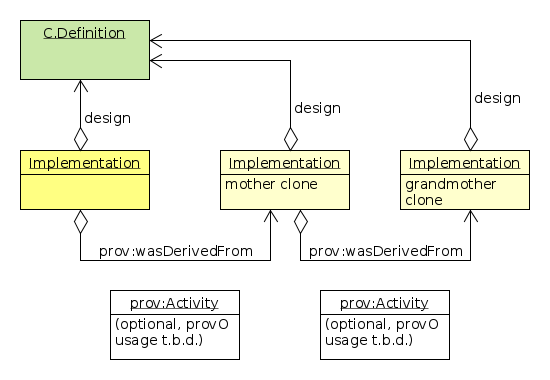
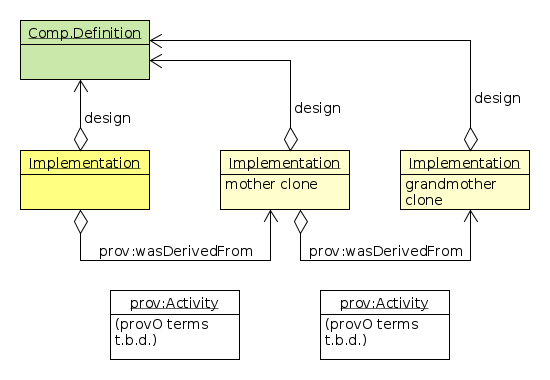
fine tune figures

Changed region(s): [[0.2164, 0.8395, 0.4327, 0.9263], [0.5873, 0.8395, 0.8036, 0.9263], [0.0618, 0.0579, 0.2473, 0.1158]]

diff --git a/sep_020.md b/sep_020.md
@@ -41,8 +41,6 @@ This proposal is mostly identical and complementary to SEP 19 but differs in the
 Specification <a name="specification"></a>
 ----------------------------------------------
 
-We propose a new class `Implementation`. 
-
 ### 2.1 Implementation class <a name="implementation"></a>
 
 An `Implementation` represents a real, physical instance of a synthetic biological construct which may be associated with, typically more than one, actual laboratory samples. Note that the representation of individual samples (as in LIMS systems) remains outside the scope of SBOL. Whether or not two samples are considered to belong to the same batch or at which point they are split into separate `Implementation` instances is decided by the user and will be a matter of community best practices in a given area of bioengineering. 
@@ -80,7 +78,7 @@ Once created, the `uri` identifier of an `Implementation` instance MUST NOT chan
 
 ![Experimental Data](images/sep_020_impl_to_exp.png "Association of Experimental Data with Clones/Batches and intended Design")
 
-**Figure 2.2:** Association of experimental data with `Implementation` (Clones/Batches) and Design.
+**Figure 2:** Association of experimental data with `Implementation` (Clones/Batches) and Design.
 
 Such `Attachments` MAY instead also be grouped into `Collections`. Detailed will have to be determined by practical use.
 
@@ -91,7 +89,7 @@ Detailed information about how a given construct or organism was built in the la
 
 ![Assembly Method](images/sep_020_assembly.png "Representation of construct or organism assembly")
 
-**Figure 2.3:** Representation of Assembly method and provenance.
+**Figure 3:** Representation of Assembly method and provenance.
 
 Note: The Assembly `Activity` MAY also have a `Usage:design` record pointing to the design `ComponentDefinition`. This link is redundant with the `Implementation.design` field and therefore optional [A difference to SEP 19].
 
@@ -102,11 +100,11 @@ Note: The Assembly `Activity` MAY also have a `Usage:design` record pointing to 
 
 ![Ancestry](images/sep_020_ancestry.png "Document cell line or clone ancestry")
 
-**Figure 2.3:** Documentation of simple cell line or clone ancestry.
+**Figure 4:** Documentation of simple cell line or clone ancestry.
 
 Note: In SEP 19, the recommended use of `Implementation.wasDerivedFrom` also includes links to the design `ComponentDefinition`. The current proposal only recommends `wasDerivedFrom` for the expression of physical clone / batch relationships. 
 
-#### 2.4.1 Integration with Prov-O and workflow information <a name="usage_provo"></a>
+#### 2.2.4 Integration with Prov-O and workflow information <a name="usage_provo"></a>
 
 In contrast to SEP 19, the use of prov-O vocabulary together with `Implementation` is encouraged but optional. Parsing of prov-O information MUST NOT be needed for (1) the simple identification of a clone, (2) neither for determining what structure (a.k.a. sequence) it is supposed to have. 
 
@@ -115,9 +113,9 @@ It is NOT RECOMMENDED to create `wasDerivedFrom` links from `Implementation` to 
   * the pedigree of an actual clone or batch, i.e. how was derived from another clone or batch by experimentation in the lab -- use `wasGeneratedBy` + `Activity` records. Additional `Usage` roles may need to be defined for bioengineering needs. Example activities in this sense are the simple splitting of cell lines, the generation of a bacterial clone by transformation with DNA or of DNA from a bacterial clone. 
 
 
-#### 2.2.2 Versioning versus Provenance Semantics <a name="provenance_semantics"></a>
+#### 2.2.5 Versioning versus Provenance Semantics <a name="provenance_semantics"></a>
 
-In line with SEP 19 (see detailed discussion in 2.3.2), we RECOMMEND as a best practice that objects linked by Activities not be successive versions of each other, though we leave this at the discretion of users and library developers.
+In line with SEP 19 (see detailed discussion in 2.3.2), we RECOMMEND as a best practice that objects linked by Activities not be successive versions (of the computational record) of each other, though we leave this at the discretion of users and library developers.
 
 ### 2.3 Validation Rules <a name="validation_rules"></a>
 
@@ -127,7 +125,7 @@ Not much is needed beyond the strict data model definition:
 
 * If a "Build" `Activity` referenced by `Implementation.wasGeneratedBy` contains a `Usage:design` record, then this `Usage:design` MUST point to the same `ComponentDefinition` or `ModuleDefinition` as `Implementation.design`. (Error)
 
-SEP 19 prescribes a host of additional validation rules related to prov-O usage. 
+SEP 19 prescribes a host of additional validation rules related to prov-O usage. Some of these may apply here as well.
 
 
 Examples <a name='examples'></a>
